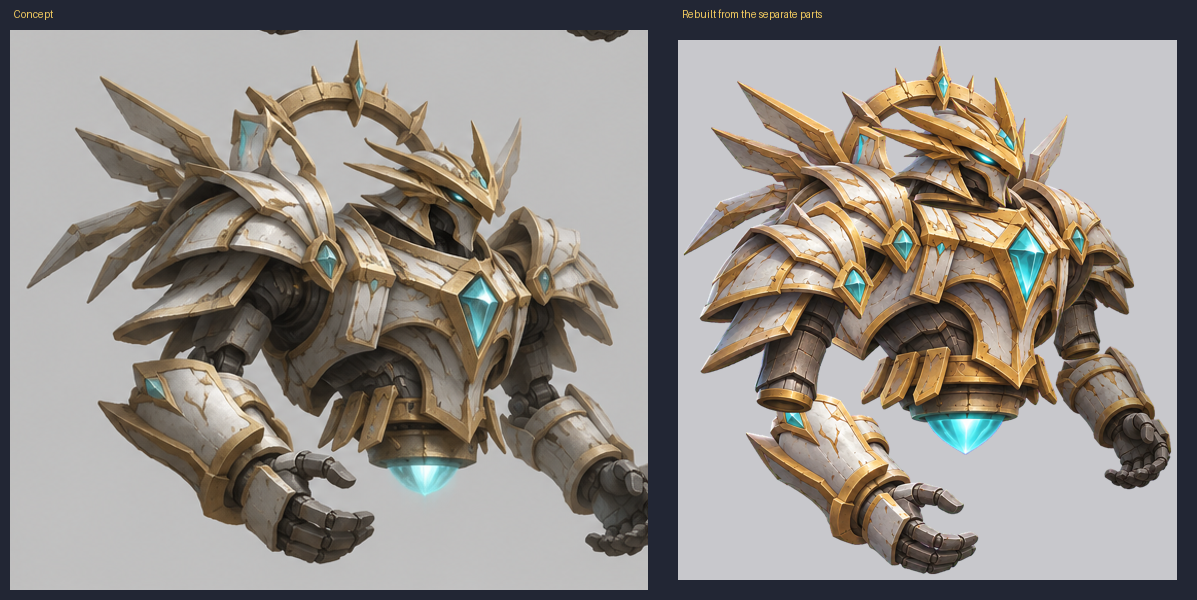
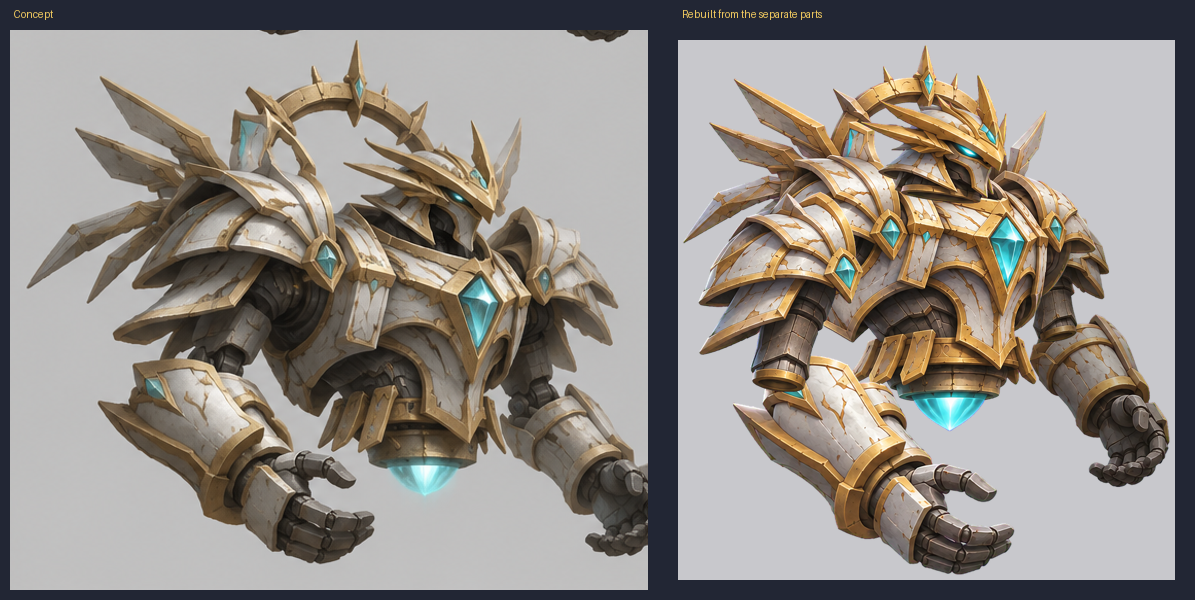
Mecha: forearms 1.28x, closer to the upper arms
Claude-Session: https://claude.ai/code/session_01JamU3DGA95eo1q8PxeEFBV

diff --git a/dev/mecha/assemble_mecha2.py b/dev/mecha/assemble_mecha2.py
@@ -16,7 +16,7 @@ S = key(np.asarray(Image.open(D + "mecha_parts_v2.png").convert("RGB")))
 P = {"torso": (401, 254, 1131, 938), "head": (706, 17, 963, 244), "nUp": (47, 262, 339, 617), "nFo": (34, 644, 423, 947), "fUp": (1224, 315, 1428, 616), "fFo": (1225, 655, 1452, 936)}
 A = {"neck": (848, 492), "shN": (612, 636), "shF": (1062, 596), "headB": (838, 236),
      "nUp_sh": (232, 385), "nUp_el": (195, 600), "nFo_el": (98, 690), "fUp_sh": (1318, 400), "fUp_el": (1322, 602), "fFo_el": (1268, 698)}
-C = {"gapHead": -34, "gapEl": [-6, 30], "far": 0.85, "farDark": 0.8, "rotNUp": 0, "rotNFo": 0, "rotFUp": 0, "rotFFo": 0}
+C = {"gapHead": -34, "gapEl": [-4, 12], "foScale": 1.28, "far": 0.85, "farDark": 0.8, "rotNUp": 0, "rotNFo": 0, "rotFUp": 0, "rotFFo": 0}
 if len(sys.argv) > 2: C.update(json.loads(sys.argv[2]))
 W, H = 1700, 1400; cv = Image.new("RGBA", (W, H)); O = (450, 300)   # torso offset on the canvas
 def crop(n):
@@ -37,11 +37,11 @@ def rel(n, a, b, scale=1.0, rot=0.0):   # where sheet point b lands when sheet p
 f = C["far"]; g = C["gapEl"]
 # far arm (behind the torso)
 sh = T(A["shF"]); e = rel("fUp", A["fUp_sh"], A["fUp_el"], f, C["rotFUp"]); el = (sh[0] + e[0] + g[0] * f, sh[1] + e[1] + g[1] * f)
-put("fFo", A["fFo_el"], el, f, C["rotFFo"], C["farDark"]); put("fUp", A["fUp_sh"], sh, f, C["rotFUp"], C["farDark"])
+put("fFo", A["fFo_el"], el, f * C["foScale"], C["rotFFo"], C["farDark"]); put("fUp", A["fUp_sh"], sh, f, C["rotFUp"], C["farDark"])
 # torso + head
 tim, _ = crop("torso"); cv.alpha_composite(tim, O)
 nk = T(A["neck"]); put("head", A["headB"], (nk[0], nk[1] - C["gapHead"]))
 # near arm
 sh = T(A["shN"]); e = rel("nUp", A["nUp_sh"], A["nUp_el"], 1.0, C["rotNUp"]); el = (sh[0] + e[0] + g[0], sh[1] + e[1] + g[1])
-put("nFo", A["nFo_el"], el, 1.0, C["rotNFo"]); put("nUp", A["nUp_sh"], sh, 1.0, C["rotNUp"])
+put("nFo", A["nFo_el"], el, C["foScale"], C["rotNFo"]); put("nUp", A["nUp_sh"], sh, 1.0, C["rotNUp"])
 bb = cv.getbbox(); cv.crop((bb[0] - 10, bb[1] - 10, bb[2] + 10, bb[3] + 10)).save(sys.argv[1]); print("saved", bb)
